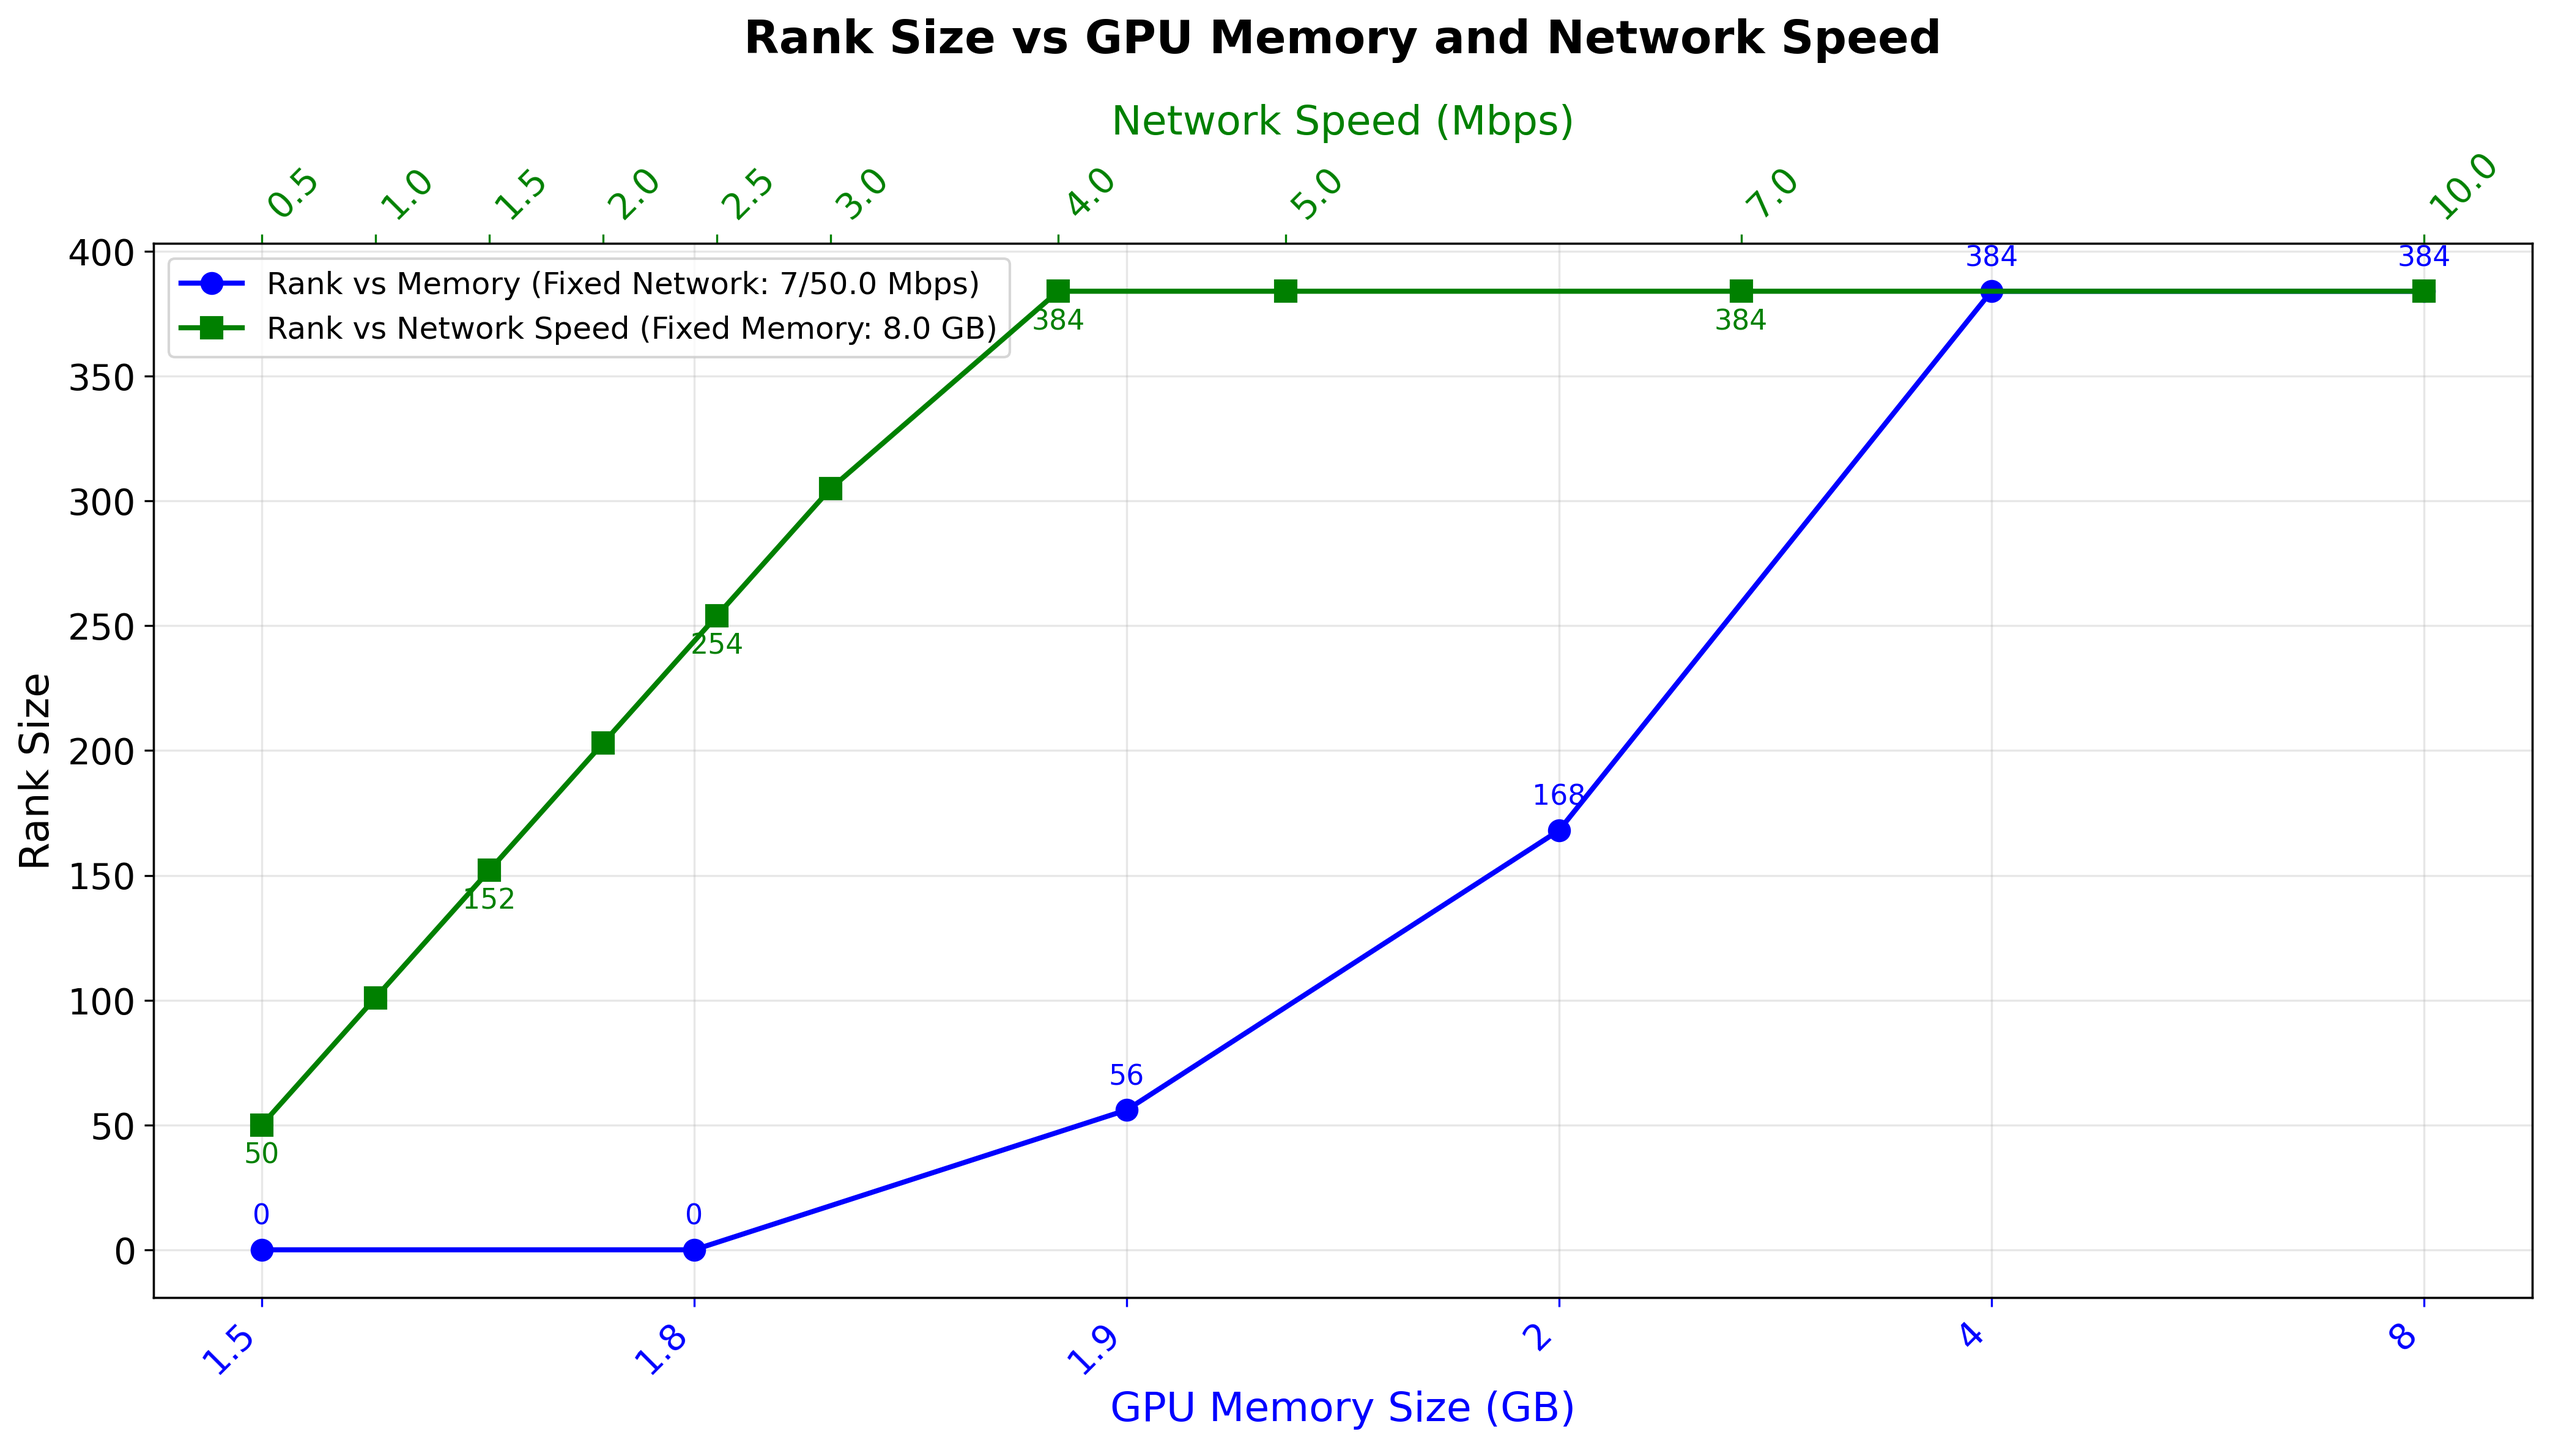
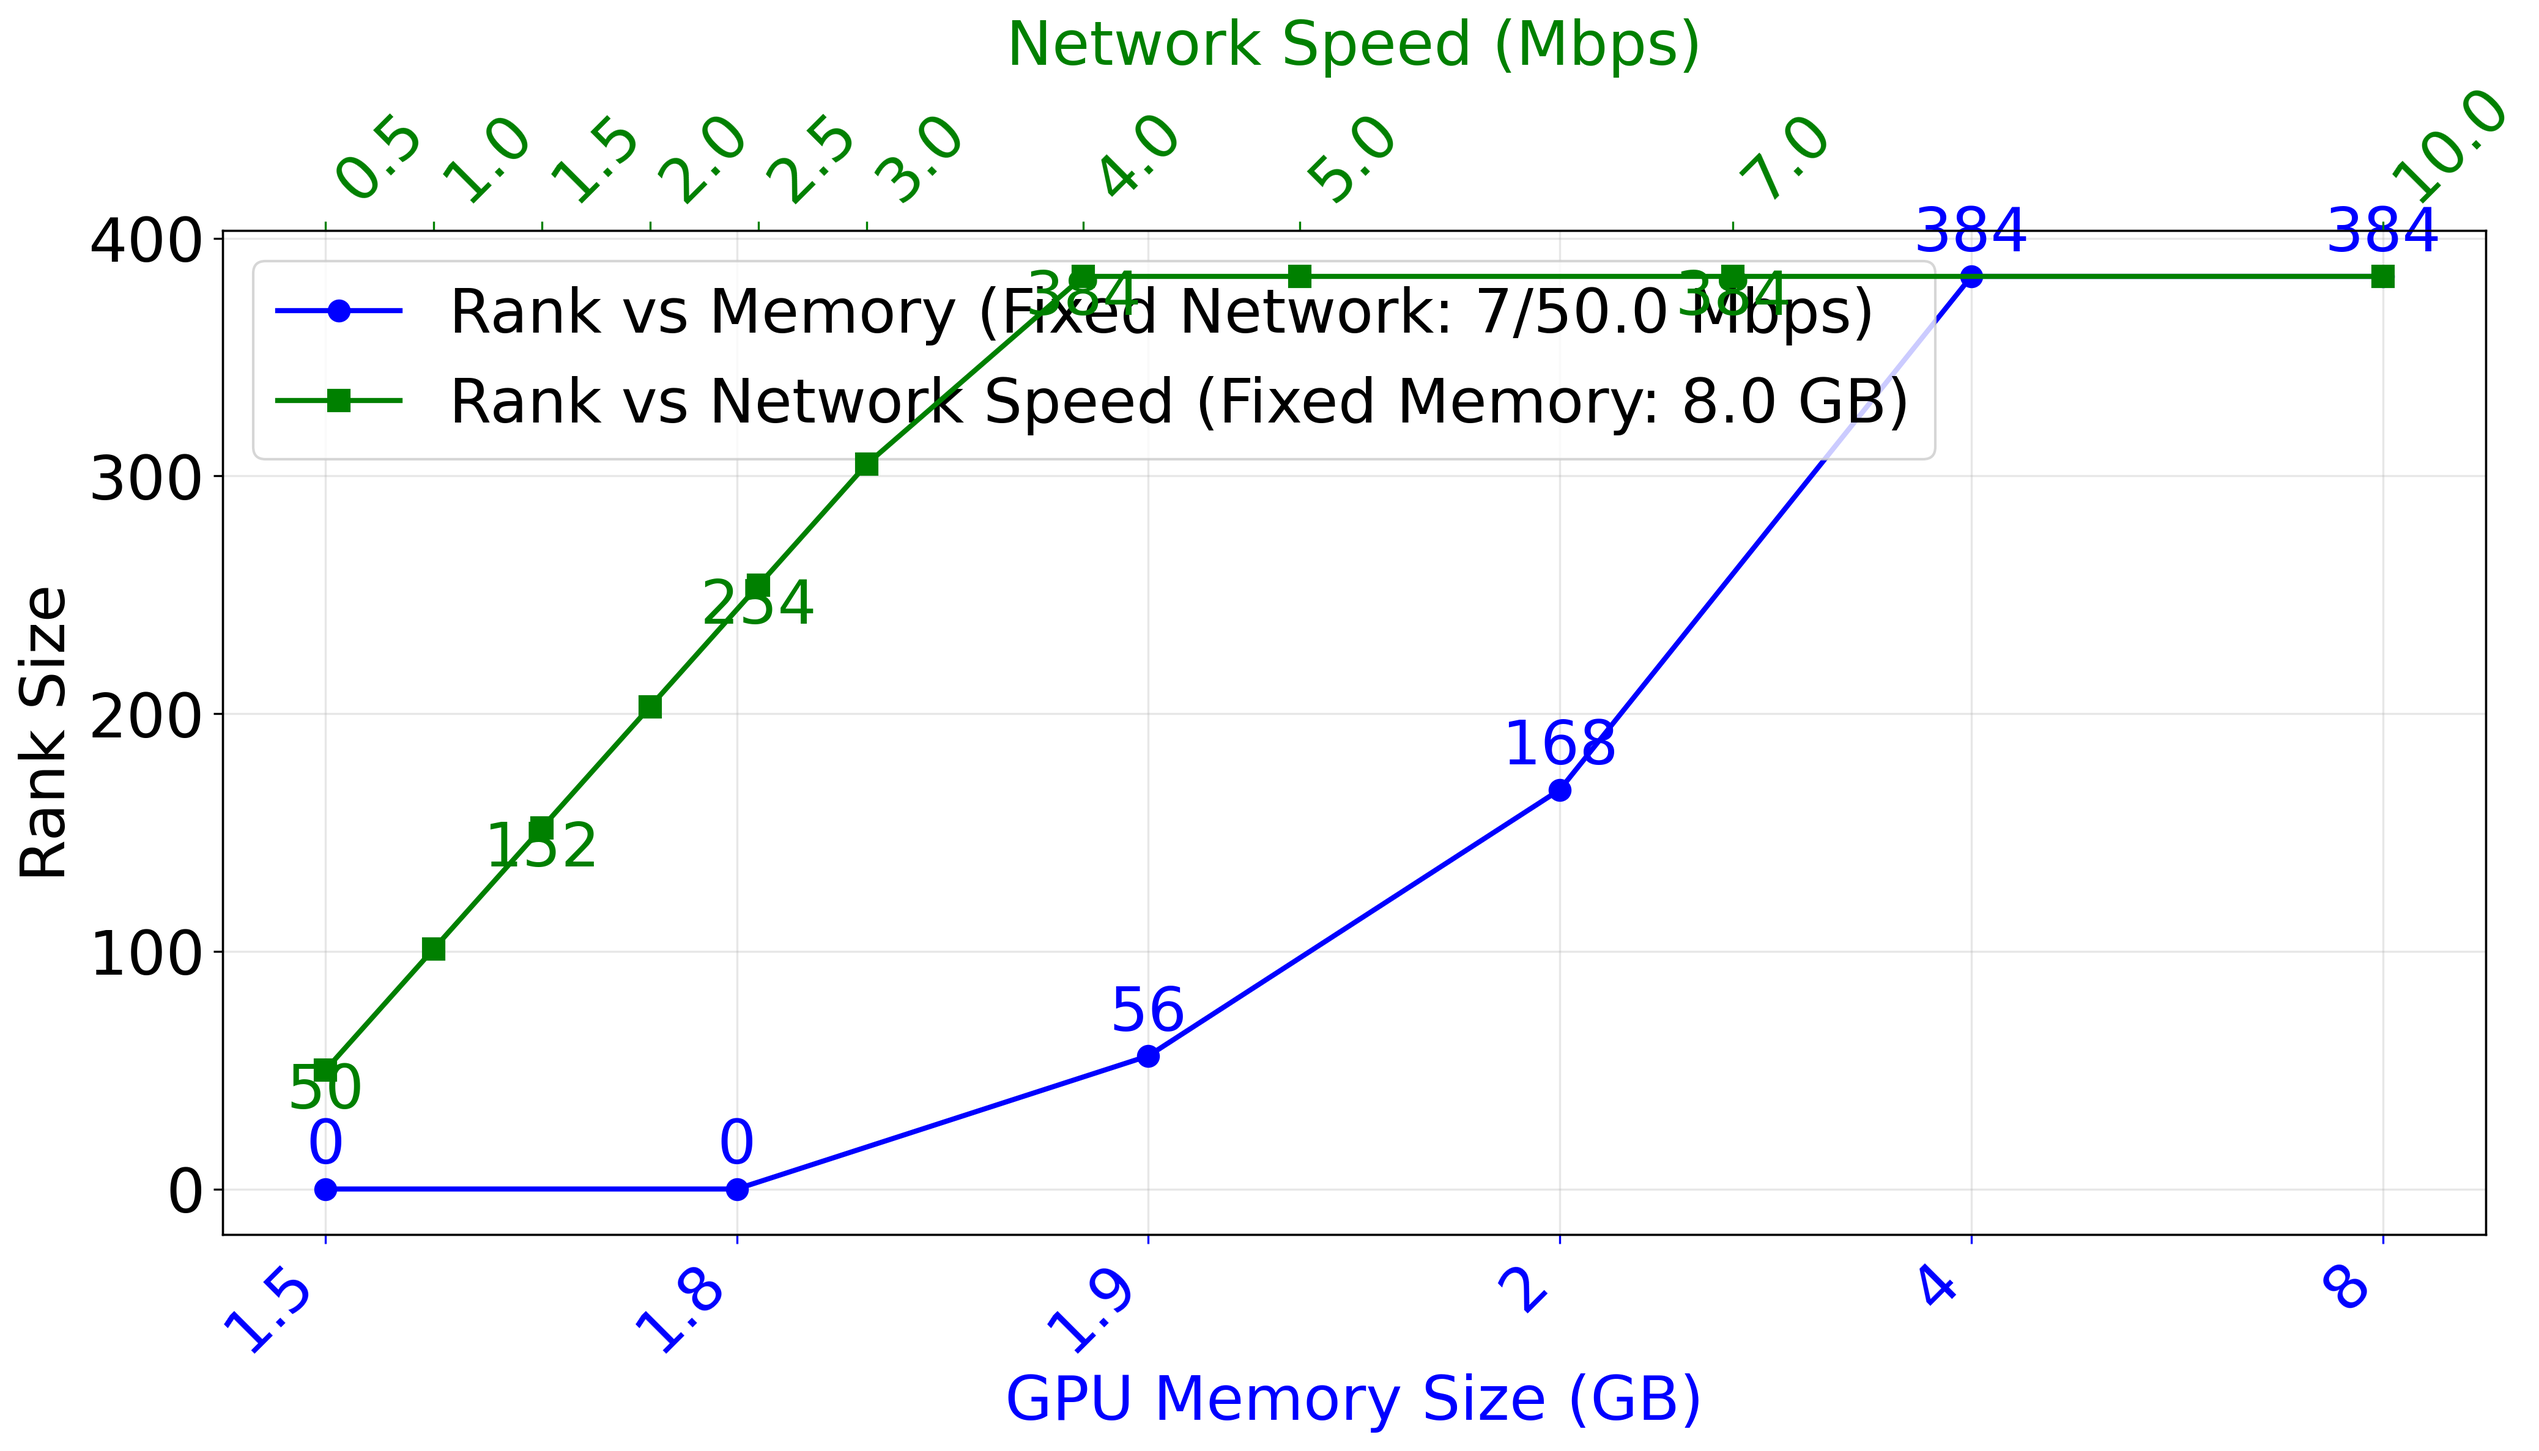
enlarge font

diff --git a/tests/test_estimator.py b/tests/test_estimator.py
@@ -727,11 +727,11 @@ class TestRankEstimatorVisualization(unittest.TestCase):
                        color='blue', label=f'Rank vs Memory (Fixed Network: {fixed_upload_speed_Mbps}/{fixed_download_speed_Mbps} Mbps)')
         
         # Set bottom X-axis for memory sizes
-        ax.set_xlabel('GPU Memory Size (GB)', fontsize=16, color='blue')
+        ax.set_xlabel('GPU Memory Size (GB)', fontsize=24, color='blue')
         ax.set_xticks(x_positions_memory)
         ax.set_xticklabels([f'{mem:.2f}' if mem < 1 else f'{mem:.1f}' if mem < 2 else f'{int(mem)}' 
-                            for mem in memory_sizes_GB], rotation=45, ha='right', fontsize=14, color='blue')
-        ax.tick_params(axis='x', labelsize=14, colors='blue')
+                            for mem in memory_sizes_GB], rotation=45, ha='right', fontsize=24, color='blue')
+        ax.tick_params(axis='x', labelsize=24, colors='blue')
         
         # Create top X-axis for network speeds
         ax2 = ax.twiny()  # Create a second axes that shares the same y-axis
@@ -758,35 +758,35 @@ class TestRankEstimatorVisualization(unittest.TestCase):
                         color='green', label=f'Rank vs Network Speed (Fixed Memory: {fixed_memory_GB} GB)')
         
         # Set top X-axis for network speeds
-        ax2.set_xlabel('Network Speed (Mbps)', fontsize=16, color='green')
+        ax2.set_xlabel('Network Speed (Mbps)', fontsize=24, color='green')
         ax2.set_xlim(ax.get_xlim())  # Match the X limits of the bottom axis
         ax2.set_xticks(network_x_positions)
-        ax2.set_xticklabels([f'{speed:.1f}' for speed in network_speeds_Mbps], rotation=45, ha='left', fontsize=14, color='green')
-        ax2.tick_params(axis='x', labelsize=14, colors='green')
+        ax2.set_xticklabels([f'{speed:.1f}' for speed in network_speeds_Mbps], rotation=45, ha='left', fontsize=24, color='green')
+        ax2.tick_params(axis='x', labelsize=24, colors='green')
         
         # Set Y-axis label (shared)
-        ax.set_ylabel('Rank Size', fontsize=16)
+        ax.set_ylabel('Rank Size', fontsize=24)
         ax.grid(True, alpha=0.3)
         
         # Combine legends from both axes
         lines1, labels1 = ax.get_legend_handles_labels()
         lines2, labels2 = ax2.get_legend_handles_labels()
-        ax.legend(lines1 + lines2, labels1 + labels2, loc='best', fontsize=12)
-        ax.tick_params(axis='y', labelsize=14)
+        ax.legend(lines1 + lines2, labels1 + labels2, loc='best', fontsize=24)
+        ax.tick_params(axis='y', labelsize=24)
         
         # Set title
-        ax.set_title('Rank Size vs GPU Memory and Network Speed', fontsize=18, fontweight='bold', pad=20)
+        #ax.set_title('Rank Size vs GPU Memory and Network Speed', fontsize=22, fontweight='bold', pad=20)
         
         # Add value labels on points for memory plot
         for i, (pos, rank) in enumerate(zip(x_positions_memory, rank_values_memory)):
             ax.annotate(f'{int(rank)}', (pos, rank), textcoords="offset points", 
-                       xytext=(0,10), ha='center', fontsize=11, color='blue')
+                       xytext=(0,10), ha='center', fontsize=24, color='blue')
         
         # Add value labels on points for network speed plot (every other point to avoid clutter)
         for i, (pos, rank) in enumerate(zip(network_x_positions, rank_values_network)):
             if i % 2 == 0:
                 ax2.annotate(f'{int(rank)}', (pos, rank), textcoords="offset points", 
-                           xytext=(0,-15), ha='center', fontsize=11, color='green')
+                           xytext=(0,-15), ha='center', fontsize=24, color='green')
         
         plt.tight_layout()
         
